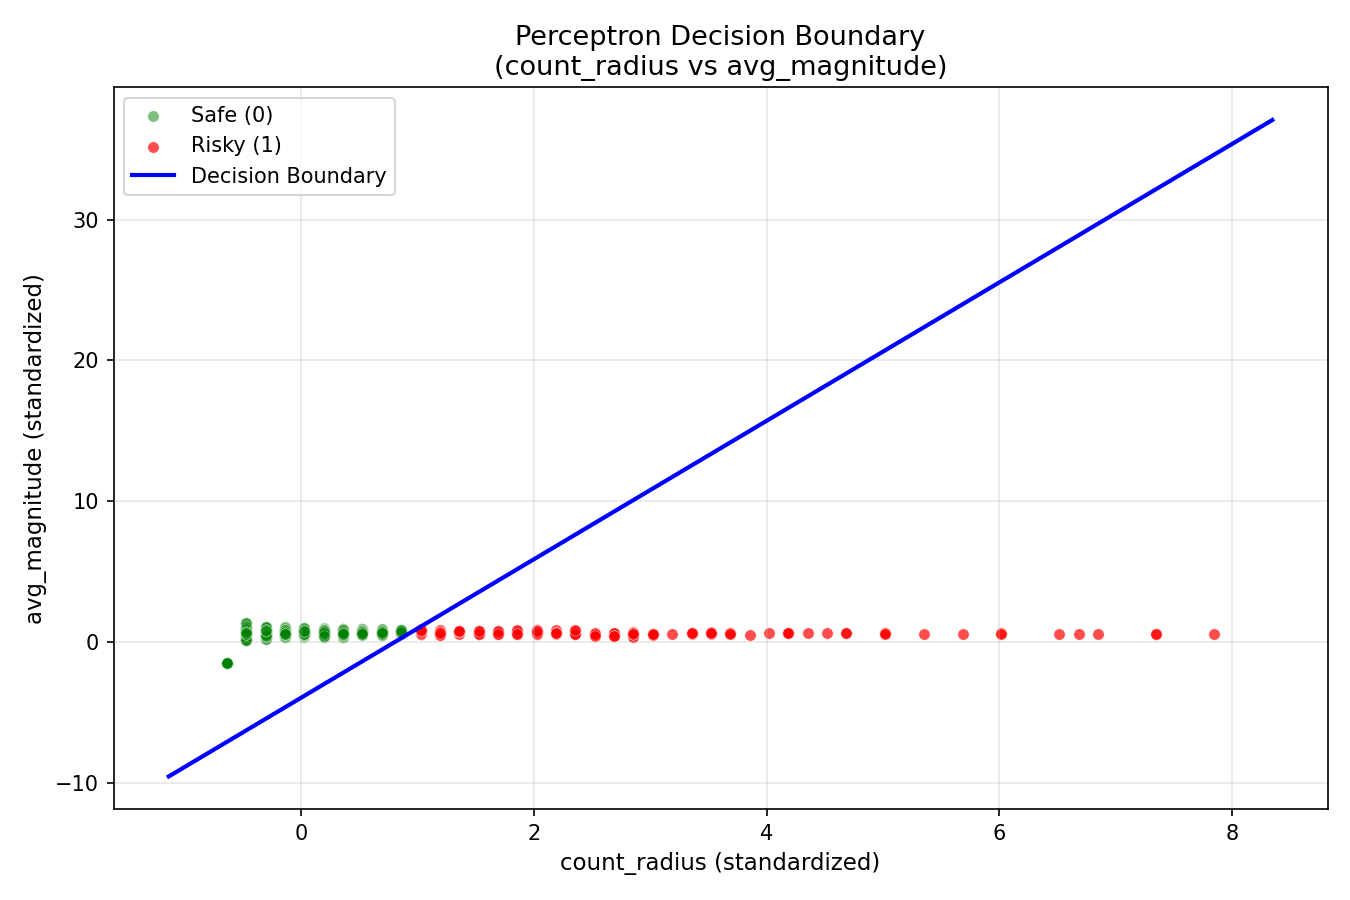
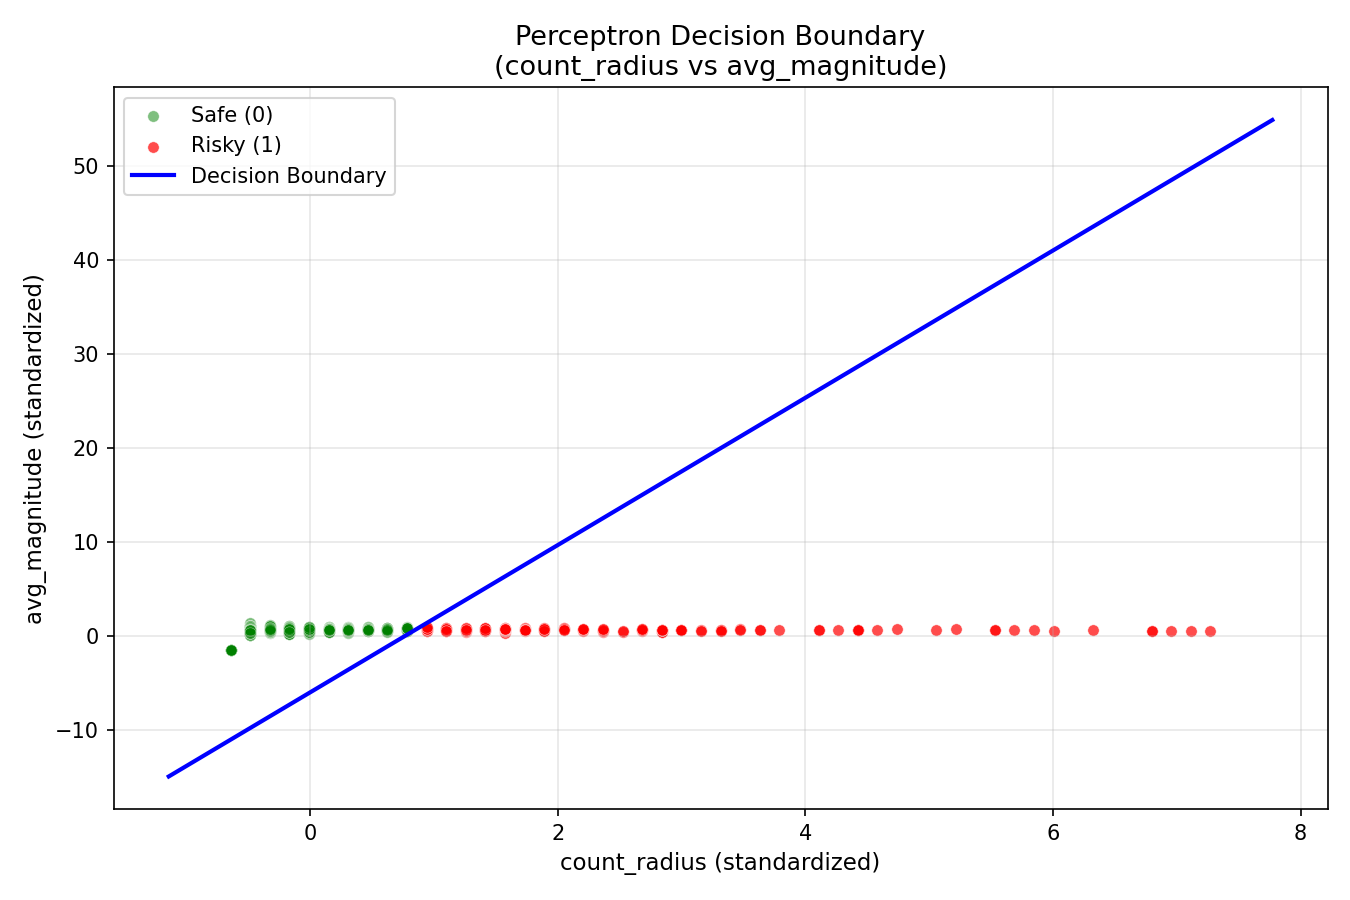
i added the mlp code and some changes

diff --git a/src/MLP_Model.py b/src/MLP_Model.py
@@ -2,35 +2,77 @@ import pandas as pd
 import numpy as np
 
 # ==========================================
-# 1. ACTIVATION FUNCTIONS
+# 1. FAULT DISTANCE FEATURE
+# ==========================================
+FAULT_CENTERS = [
+    (40.77, 29.51),   
+    (40.75, 31.61),   
+    (39.77, 39.91),   
+    (38.42, 38.68),   
+    (37.57, 36.12),   
+]
+
+def haversine_min(lats, lons):
+    
+    R = 6371.0
+    min_dists = np.full(len(lats), np.inf)
+
+    for fc_lat, fc_lon in FAULT_CENTERS:
+        lat1 = np.radians(lats)
+        lon1 = np.radians(lons)
+        lat2 = np.radians(fc_lat)
+        lon2 = np.radians(fc_lon)
+
+        dlat = lat2 - lat1
+        dlon = lon2 - lon1
+
+        a    = np.sin(dlat/2)**2 + np.cos(lat1) * np.cos(lat2) * np.sin(dlon/2)**2
+        dist = R * 2 * np.arcsin(np.sqrt(np.clip(a, 0, 1)))
+
+        min_dists = np.minimum(min_dists, dist)
+
+    return min_dists
+
+
+def add_fault_distance(X_raw):
+    
+    lats      = X_raw[:, 0]   
+    lons      = X_raw[:, 1]   
+    fault_dist = haversine_min(lats, lons).reshape(-1, 1)
+    return np.hstack([X_raw, fault_dist])
+
+
+# ==========================================
+# 2. ACTIVATION FUNCTIONS
 # ==========================================
 def sigmoid(z):
-    # Clipped for numerical stability — prevents exp overflow on large negative z
+    # Clipped for numerical stability
     return 1 / (1 + np.exp(-np.clip(z, -500, 500)))
 
 def sigmoid_derivative(a):
-    # 'a' is already the sigmoid output, so derivative is a*(1-a)
     return a * (1 - a)
 
+
 # ==========================================
-# 2. MLP CLASS
+# 3. MLP CLASS
 # ==========================================
 class EarthquakeMLP:
-    def __init__(self, input_size=5, hidden_size=8, output_size=1, lr=0.1):
+    def __init__(self, input_size=6, hidden_size=8, output_size=1, lr=0.1):
         np.random.seed(42)
 
+        # Xavier initialization
         self.w1 = np.random.randn(input_size, hidden_size) * np.sqrt(1 / input_size)
         self.b1 = np.zeros((1, hidden_size))
         self.w2 = np.random.randn(hidden_size, output_size) * np.sqrt(1 / hidden_size)
         self.b2 = np.zeros((1, output_size))
 
-        self.lr = lr
+        self.lr          = lr
         self.train_costs = []
-        self.val_costs   = []   # FIX 3: track validation cost each epoch
+        self.val_costs   = []
 
-    def fit(self, X_train, y_train, X_val=None, y_val=None, epochs=2000):
+    def fit(self, X_train, y_train, X_val=None, y_val=None, epochs=6800):
         y_train = y_train.reshape(-1, 1)
-        m = X_train.shape[0]   # FIX 2: batch size for gradient normalization
+        m       = X_train.shape[0]
 
         if y_val is not None:
             y_val = y_val.reshape(-1, 1)
@@ -47,27 +89,28 @@ class EarthquakeMLP:
             cost  = np.mean(np.square(error))
             self.train_costs.append(cost)
 
-            # --- FIX 3: Validation cost ---
+            # --- VALIDATION COST ---
             if X_val is not None:
                 _, a2_val = self.predict(X_val)
-                val_cost = np.mean(np.square(y_val - a2_val))
+                val_cost  = np.mean(np.square(y_val - a2_val))
                 self.val_costs.append(val_cost)
 
             # --- BACKPROPAGATION ---
             d_a2 = error * sigmoid_derivative(a2)
             d_a1 = d_a2.dot(self.w2.T) * sigmoid_derivative(a1)
 
-            # --- FIX 2: Divide by m so gradient magnitude doesn't scale with dataset size ---
-            # Without this, lr=0.1 on 1600 samples acts like lr=160 effectively
+            # --- WEIGHT UPDATES (divided by m) ---
             self.w2 += (a1.T.dot(d_a2) / m) * self.lr
             self.b2 += (np.sum(d_a2, axis=0, keepdims=True) / m) * self.lr
             self.w1 += (X_train.T.dot(d_a1) / m) * self.lr
             self.b1 += (np.sum(d_a1, axis=0, keepdims=True) / m) * self.lr
 
-            # --- Logging ---
+            # --- LOGGING every 200 epochs ---
             if (i + 1) % 200 == 0:
                 train_acc = self._accuracy(X_train, y_train)
-                log = f"Epoch {i+1:>4}/{epochs} | Train MSE: {cost:.6f} | Train Acc: {train_acc*100:.2f}%"
+                log = (f"Epoch {i+1:>4}/{epochs} | "
+                       f"Train MSE: {cost:.6f} | "
+                       f"Train Acc: {train_acc*100:.2f}%")
                 if X_val is not None:
                     val_acc = self._accuracy(X_val, y_val)
                     log += f" | Val MSE: {val_cost:.6f} | Val Acc: {val_acc*100:.2f}%"
@@ -82,8 +125,9 @@ class EarthquakeMLP:
         a2 = sigmoid(np.dot(a1, self.w2) + self.b2)
         return np.where(a2 >= 0.5, 1, 0), a2
 
+
 # ==========================================
-# 3. EVALUATION — FIX 5: Confusion Matrix
+# 4. CONFUSION MATRIX
 # ==========================================
 def confusion_matrix_report(y_true, y_pred):
     TP = int(np.sum((y_pred == 1) & (y_true == 1)))
@@ -91,27 +135,30 @@ def confusion_matrix_report(y_true, y_pred):
     FP = int(np.sum((y_pred == 1) & (y_true == 0)))
     FN = int(np.sum((y_pred == 0) & (y_true == 1)))
 
-    precision = TP / (TP + FP + 1e-8)
-    recall    = TP / (TP + FN + 1e-8)
-    f1        = 2 * precision * recall / (precision + recall + 1e-8)
-    accuracy  = (TP + TN) / (TP + TN + FP + FN)
+    accuracy   = (TP + TN) / (TP + TN + FP + FN)
+    error_rate = 1 - accuracy
+    precision  = TP / (TP + FP + 1e-8)
+    recall     = TP / (TP + FN + 1e-8)
+    f1         = 2 * precision * recall / (precision + recall + 1e-8)
 
-    print("\n" + "="*40)
-    print("       CONFUSION MATRIX")
-    print("="*40)
-    print(f"  True  Positive (TP): {TP:>5}")
-    print(f"  True  Negative (TN): {TN:>5}")
-    print(f"  False Positive (FP): {FP:>5}  ← predicted Risky, was Safe")
-    print(f"  False Negative (FN): {FN:>5}  ← predicted Safe,  was Risky")
-    print("-"*40)
-    print(f"  Accuracy  : {accuracy*100:.2f}%")
-    print(f"  Precision : {precision:.4f}")
-    print(f"  Recall    : {recall:.4f}")
-    print(f"  F1-Score  : {f1:.4f}")
-    print("="*40)
+    print("\n" + "="*45)
+    print("          CONFUSION MATRIX")
+    print("="*45)
+    print(f"  True  Positive (TP): {TP:>5}  ← Correctly predicted Risky")
+    print(f"  True  Negative (TN): {TN:>5}  ← Correctly predicted Safe")
+    print(f"  False Positive (FP): {FP:>5}  ← Predicted Risky, was Safe")
+    print(f"  False Negative (FN): {FN:>5}  ← Predicted Safe,  was Risky ⚠️")
+    print("-"*45)
+    print(f"  Accuracy   : {accuracy   * 100:.2f}%")
+    print(f"  Error Rate : {error_rate * 100:.2f}%")
+    print(f"  Precision  : {precision:.4f}")
+    print(f"  Recall     : {recall:.4f}")
+    print(f"  F1-Score   : {f1:.4f}")
+    print("="*45)
+
 
 # ==========================================
-# 4. UTILITY FUNCTIONS
+# 5. SAVE METADATA
 # ==========================================
 def save_mlp_metadata(model, mean, std, features, filename="data/mlp_metadata.csv"):
     rows = []
@@ -128,34 +175,45 @@ def save_mlp_metadata(model, mean, std, features, filename="data/mlp_metadata.cs
         rows.append({'Type': 'Scaling_Std',  'Source': feat, 'Target': 'None', 'Value': std[i]})
 
     pd.DataFrame(rows).to_csv(filename, index=False)
-    print(f"\n--- [Phase 3] Metadata Saved to {filename} ---")
+    print(f"\n--- [Phase 3] Metadata saved to {filename} ---")
 
+
+# ==========================================
+# 6. VISUALIZE PREDICTIONS
+# ==========================================
 def test_and_visualize(model, X_raw, X_scaled, y_true):
     preds, probs = model.predict(X_scaled)
     preds  = preds.flatten()
     probs  = probs.flatten()
     y_true = y_true.flatten()
 
-    print("\n" + "="*70)
-    print(f"{'LATITUDE':<10} | {'LONGITUDE':<10} | {'ACTUAL':<8} | {'PRED':<8} | {'PROB %'}")
-    print("-"*70)
+    print("\n" + "="*80)
+    print(f"{'LATITUDE':<10} | {'LONGITUDE':<10} | {'FAULT KM':<10} | "
+          f"{'ACTUAL':<8} | {'PRED':<8} | {'PROB %'}")
+    print("-"*80)
 
-    # FIX 6: guard against test set smaller than 15
     n_show = min(200, len(y_true))
     for i in range(n_show):
-        lat, lon  = X_raw[i, 0], X_raw[i, 1]
+        lat       = X_raw[i, 0]
+        lon       = X_raw[i, 1]
+        fault_km  = X_raw[i, 5]          # العمود الجديد
         act_str   = "Risky" if y_true[i] == 1 else "Safe"
         pre_str   = "Risky" if preds[i]  == 1 else "Safe"
         marker    = "✅" if y_true[i] == preds[i] else "❌"
-        print(f"{lat:<10.4f} | {lon:<10.4f} | {act_str:<8} | {pre_str:<8} | {probs[i]*100:>6.2f}% {marker}")
+        print(f"{lat:<10.4f} | {lon:<10.4f} | {fault_km:<10.1f} | "
+              f"{act_str:<8} | {pre_str:<8} | {probs[i]*100:>6.2f}% {marker}")
 
-    print("="*70)
+    print("="*80)
+
 
 # ==========================================
-# 5. MAIN EXECUTION PIPELINE
+# 7. MAIN PIPELINE
 # ==========================================
 def run_final_mlp_project():
-    features = ['latitude', 'longitude', 'distance_min', 'count_radius', 'avg_magnitude']
+
+    base_features = ['latitude', 'longitude', 'distance_min',
+                     'count_radius', 'avg_magnitude']
+    all_features  = base_features + ['fault_distance']
 
     try:
         df = pd.read_csv("data/turkey_training_set.csv")
@@ -163,42 +221,53 @@ def run_final_mlp_project():
         print("Error: data/turkey_training_set.csv not found!")
         return
 
-    X = df[features].values
-    y = df['label'].values
+    X_raw = df[base_features].values
+    y     = df['label'].values
 
-    # 80/20 Shuffle & Split
+    X_raw = add_fault_distance(X_raw)
+    print(f"✓ fault_distance feature added — shape now: {X_raw.shape}")
+    print(f"  Sample fault distances (km): {X_raw[:3, 5].round(1)}")
+
+    # --- Shuffle & Split 80/20 ---
     np.random.seed(42)
-    indices = np.random.permutation(len(X))
-    X_shuff, y_shuff = X[indices], y[indices]
+    indices              = np.random.permutation(len(X_raw))
+    X_shuff, y_shuff     = X_raw[indices], y[indices]
 
-    split_idx = int(0.8 * len(X))
-    X_train_raw, X_test_raw = X_shuff[:split_idx],  X_shuff[split_idx:]
-    y_train,     y_test     = y_shuff[:split_idx],  y_shuff[split_idx:]
+    split_idx            = int(0.8 * len(X_raw))
+    X_train_raw          = X_shuff[:split_idx]
+    X_test_raw           = X_shuff[split_idx:]
+    y_train              = y_shuff[:split_idx]
+    y_test               = y_shuff[split_idx:]
 
-    # Standardization — train stats only, with zero-std guard
-    mean = X_train_raw.mean(axis=0)
-    std  = X_train_raw.std(axis=0)
-    std[std == 0] = 1                                    # FIX 4: prevent NaN
+    # --- Standardization (training stats only — no data leakage) ---
+    mean              = X_train_raw.mean(axis=0)
+    std               = X_train_raw.std(axis=0)
+    std[std == 0]     = 1                           # zero-std guard
 
-    X_train_scaled = (X_train_raw - mean) / std
-    X_test_scaled  = (X_test_raw  - mean) / std
+    X_train_scaled    = (X_train_raw - mean) / std
+    X_test_scaled     = (X_test_raw  - mean) / std
 
-    # Train
-    print("\n--- Phase 3: Multi-Layer Perceptron (5-8-1 Architecture) ---\n")
-    model = EarthquakeMLP(input_size=5, hidden_size=8, lr=0.1)
-    model.fit(X_train_scaled, y_train,
-              X_val=X_test_scaled, y_val=y_test,
-              epochs=6800)
+    # --- Train ---
+    print("\n--- Phase 3: MLP (6-8-1 Architecture with fault_distance) ---\n")
+    model = EarthquakeMLP(input_size=6, hidden_size=8, lr=0.1)
+    model.fit(
+        X_train_scaled, y_train,
+        X_val=X_test_scaled, y_val=y_test,
+        epochs=6800
+    )
 
-    # Final results
+    # --- Results ---
     val_preds, _ = model.predict(X_test_scaled)
-    val_acc = np.mean(val_preds.flatten() == y_test)
-    print(f"\nFINAL VALIDATION ACCURACY (20% Unseen): {val_acc * 100:.2f}%")
+    val_acc      = np.mean(val_preds.flatten() == y_test)
+    val_err      = 1 - val_acc
+
+    print(f"\nFINAL VALIDATION ACCURACY : {val_acc * 100:.2f}%")
+    print(f"FINAL VALIDATION ERROR    : {val_err * 100:.2f}%")
 
     confusion_matrix_report(y_test, val_preds.flatten())
-    save_mlp_metadata(model, mean, std, features)
+    save_mlp_metadata(model, mean, std, all_features)
     test_and_visualize(model, X_test_raw, X_test_scaled, y_test)
-    
+
 
 if __name__ == "__main__":
     run_final_mlp_project()